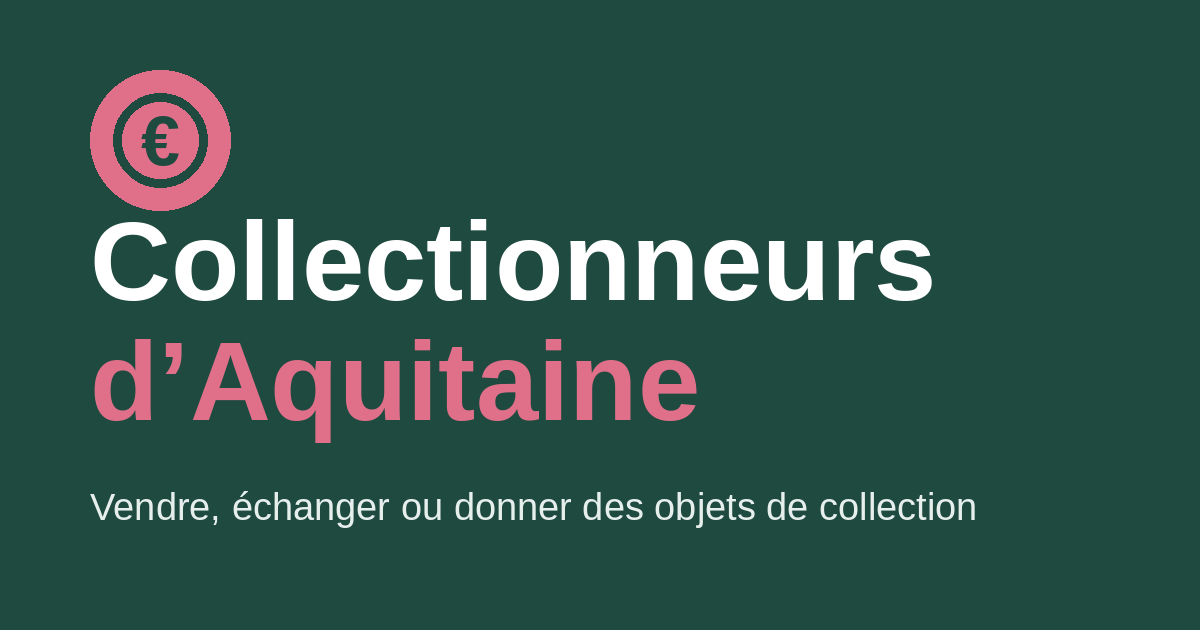
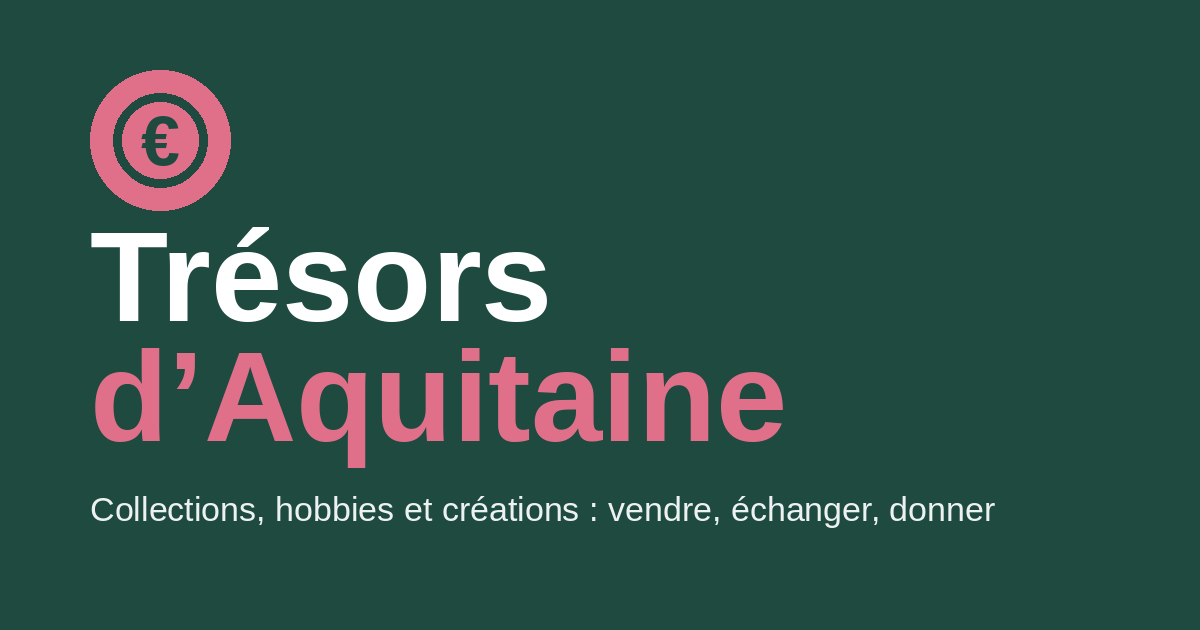
Add files via upload

Changed region(s): [[0.0617, 0.3317, 0.8017, 0.5127], [0.0617, 0.5429, 0.6475, 0.754], [0.0617, 0.7841, 0.8325, 0.8444]]

diff --git a/legal.html b/legal.html
@@ -3,7 +3,7 @@
 <head>
 <meta charset="utf-8">
 <meta name="viewport" content="width=device-width, initial-scale=1, viewport-fit=cover">
-<title>Mentions légales, CGU et confidentialité – Collectionneurs d’Aquitaine</title>
+<title>Mentions légales, CGU et confidentialité – Trésors d’Aquitaine</title>
 <style>
 :root{--bg:#eef3f1;--surface:#fff;--ink:#16302b;--muted:#5d716c;--line:#d3dedb;--accent:#8e2a3b;--mark:#fff3b0}
 @media (prefers-color-scheme:dark){:root{--bg:#0f1f1c;--surface:#172b27;--ink:#e6efec;--muted:#9bb0aa;--line:#2b443e;--accent:#e0708a;--mark:#5a4b00}}
@@ -33,7 +33,7 @@ mark{background:var(--mark);color:inherit;padding:0 3px;border-radius:3px}
 <section id="mentions">
 <h2>Mentions légales</h2>
 <h3>Éditeur du site</h3>
-<p>Collectionneurs d’Aquitaine est édité à titre non professionnel par Hervé CAPORALE, particulier.<br>Contact : hervecaporale17@gmail.com</p>
+<p>Trésors d’Aquitaine est édité à titre non professionnel par Hervé CAPORALE, particulier.<br>Contact : hervecaporale17@gmail.com</p>
 <p>Directeur de la publication : Hervé CAPORALE.</p>
 <h3>Hébergement</h3>
 <p>Le site est hébergé par GitHub, Inc., 88 Colin P. Kelly Jr. Street, San Francisco, CA 94107, États-Unis (github.com).</p>
@@ -49,7 +49,7 @@ mark{background:var(--mark);color:inherit;padding:0 3px;border-radius:3px}
 <section id="cgu">
 <h2>Conditions générales d’utilisation</h2>
 <h3>1. Objet</h3>
-<p>Les présentes conditions encadrent l’utilisation du site Collectionneurs d’Aquitaine. En créant un compte, vous les acceptez.</p>
+<p>Les présentes conditions encadrent l’utilisation du site Trésors d’Aquitaine. En créant un compte, vous les acceptez.</p>
 <h3>2. Réservé aux particuliers</h3>
 <p>Le site est réservé aux <strong>particuliers</strong> qui vendent, achètent, échangent ou donnent des objets de collection à titre occasionnel. Les professionnels (commerçants, brocanteurs, antiquaires, boutiques, revendeurs réguliers) n’ont pas le droit de publier des annonces. Un compte qui publie de manière répétée dans un but commercial peut être suspendu.</p>
 <h3>3. Compte</h3>
